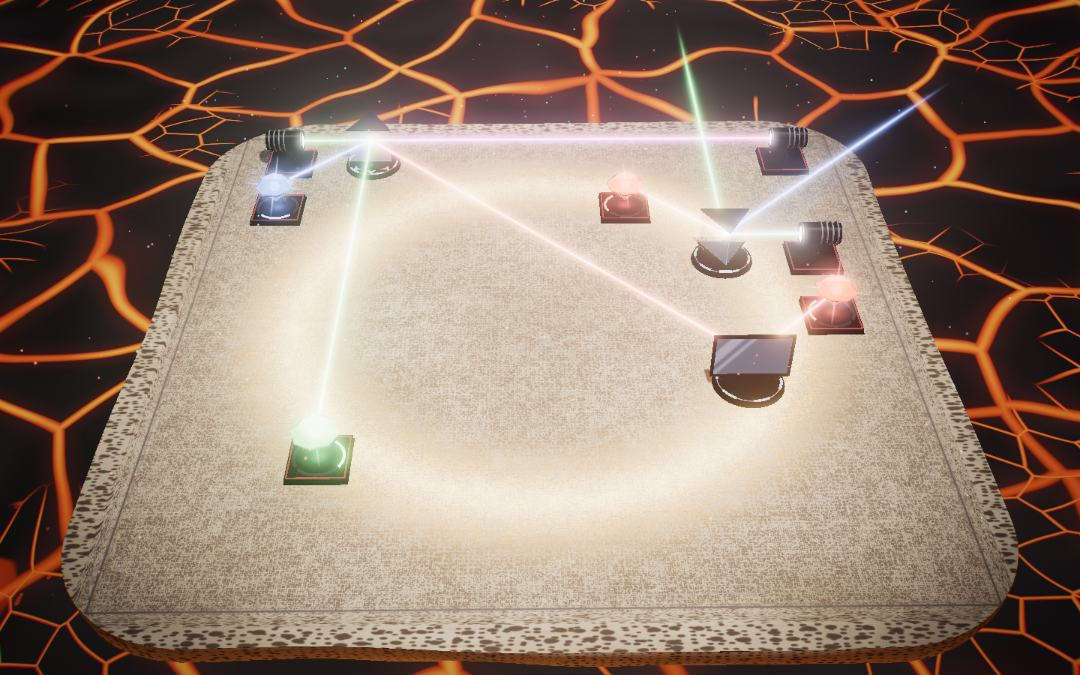
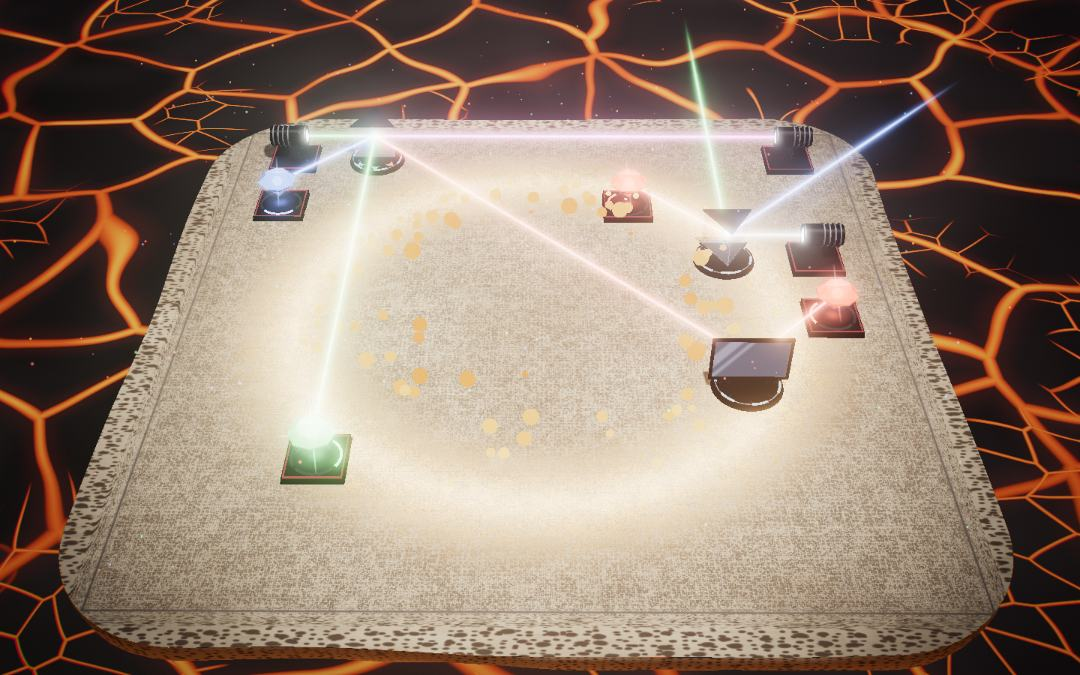
docs(brett): Vulkan-Katalog Version 2 – jede Karte mit eigener Lichtwelle; Ticket 09 nachgeführt

diff --git a/.scratch/brett-je-himmel/katalog-vulkan/index.html b/.scratch/brett-je-himmel/katalog-vulkan/index.html
@@ -114,9 +114,10 @@
       <h1>Vulkanbretter</h1>
       <p class="lead">Acht Richtungen für das Brett über dem Lavasee am neuen Krater, bei Nacht und im Licht der Glut:
         Stoffe des Vulkans (Obsidian, Stricklava, Bims), andere Formen (Basaltsäulen, ein hängender Tuffkegel mit einer
-        Stadt darin), etwas Gebautes (ein Amboss), die Farben der Schwefelquellen von Dallol und ein Drachenhort. Jedes Bild
-        stammt aus dem Spiel, dasselbe Level, das Brett zur Laufzeit eingesetzt. Wähle eine Richtung, gern mit
-        Änderungswünschen.</p>
+        Stadt darin), etwas Gebautes (ein Amboss), die Farben der Schwefelquellen von Dallol und ein Drachenhort. Beim
+        Lösen passiert auf jedem Brett etwas Eigenes, das vierte Bild jeder Karte zeigt es: Splitter, Säulen, Lavablasen,
+        Funken, Gasblasen, Kristalle, Ballone oder Münzen. Jedes Bild stammt aus dem Spiel, dasselbe Level, das Brett zur
+        Laufzeit eingesetzt. Wähle eine Richtung, gern mit Änderungswünschen.</p>
     </div>
     <section class="grenzen" aria-labelledby="grenzen-titel">
       <h2 id="grenzen-titel">Bleibt in jeder Richtung gleich</h2>
@@ -243,8 +244,8 @@
           <div><dt>Raster</dt><dd>Matt geätzte, graue Linien.</dd></div>
           <div><dt>Einlegelinie</dt><dd>Eine matte, hellgraue Linie.</dd></div>
           <div><dt>Spiegelung</dt><dd>Ja, stark: schwarzes, poliertes Glas.</dd></div>
-          <div class="welle"><dt>Lichtwelle</dt><dd>Ein Regenbogenschimmer wie bei Regenbogenobsidian, der den Fliessbändern im Glas folgt.</dd></div>
-          <div><dt>Kosten</dt><dd>Alles berechnet, der Kiel ist ein Körper aus Ringen. Der ausgebogte Umriss deckt den heutigen Quader nicht ganz.</dd></div>
+          <div class="welle"><dt>Lichtwelle</dt><dd>Wo der Ring vorbeizieht, schiessen schwarze Glassplitter mit Regenbogenkanten aus dem Feld, und das Glas schimmert in den Farben von Regenbogenobsidian. Hinter dem Ring sinken die Splitter wieder ins Glas, der Schimmer verlischt, und das Feld ist wieder schwarz und spiegelglatt.</dd></div>
+          <div><dt>Kosten</dt><dd>Alles berechnet, der Kiel ist ein Körper aus Ringen. Der ausgebogte Umriss deckt den heutigen Quader nicht ganz. Für die Welle rund 900 Splitter als Instanzen, in Ruhe unsichtbar.</dd></div>
         </dl>
         <ul class="hinweise">
           <li><span class="chip chip-kern">Kernquader kleiner</span> Ausgebogter Umriss: Der Kernquader wird kleiner. Der Kiel hängt 1,6 m unter das Brett, bleibt aber im Umriss.</li>
@@ -295,8 +296,8 @@
           <div><dt>Raster</dt><dd>Feine, helle Linien über den Fugen.</dd></div>
           <div><dt>Einlegelinie</dt><dd>Eine hellgraue Linie.</dd></div>
           <div><dt>Spiegelung</dt><dd>Leicht, der Basalt ist geschliffen.</dd></div>
-          <div class="welle"><dt>Lichtwelle</dt><dd>Glut steigt in den Fugen der Säulen auf, und die Köpfe der Randsäulen leuchten nacheinander auf.</dd></div>
-          <div><dt>Kosten</dt><dd>Rund 940 Säulen als ein Körper mit Instanzen, das Muster im Feld ist berechnet.</dd></div>
+          <div class="welle"><dt>Lichtwelle</dt><dd>Im Ring heben sich Säulen des Felds eine Handbreit aus dem Boden, ihre Flanken glühen orange wie frisch erstarrter Basalt, und in den Fugen steigt Glut auf. Hinter dem Ring sinken die Säulen zurück, die Fugen verglimmen, und das Feld ist wieder eben.</dd></div>
+          <div><dt>Kosten</dt><dd>Rund 940 Säulen als ein Körper mit Instanzen, das Muster im Feld ist berechnet. Für die Welle einige hundert Säulen mehr, in Ruhe unsichtbar.</dd></div>
         </dl>
         <ul class="hinweise">
           <li><span class="chip chip-teile">Viele kleine Teile</span> Rund 940 Säulen (Instanzen, ein Zeichenaufruf). Auf dem Handy zu messen.</li>
@@ -348,8 +349,8 @@
           <div><dt>Raster</dt><dd>Feine Fugen, in denen es dunkelrot glimmt.</dd></div>
           <div><dt>Einlegelinie</dt><dd>Eine silbrige Glaslinie.</dd></div>
           <div><dt>Spiegelung</dt><dd>Leicht, die glasige Haut glänzt.</dd></div>
-          <div class="welle"><dt>Lichtwelle</dt><dd>Ein Hitzestoss: Fugen und Risse flammen gelb auf, wo der Ring vorbeizieht.</dd></div>
-          <div><dt>Kosten</dt><dd>Alles berechnet, die Seiten sind ein Körper aus Ringen.</dd></div>
+          <div class="welle"><dt>Lichtwelle</dt><dd>Wo der Ring vorbeizieht, bricht die Kruste auf: Glühende Lavablasen quellen hervor, Funken steigen auf, und Fugen und Risse flammen gelb. Hinter dem Ring erkalten die Blasen von Gelb über Dunkelrot zu Kruste und sinken ein, die Funken verglühen in der Luft.</dd></div>
+          <div><dt>Kosten</dt><dd>Alles berechnet, die Seiten sind ein Körper aus Ringen. Für die Welle rund 900 Blasen und 700 Funken als Instanzen, in Ruhe unsichtbar.</dd></div>
         </dl>
         <ul class="hinweise">
           <li><span class="chip chip-kern">Kernquader kleiner</span> Runder Umriss mit Zehen: Der Kernquader wird kleiner.</li>
@@ -400,8 +401,8 @@
           <div><dt>Raster</dt><dd>Anreisslinien, fein und blank.</dd></div>
           <div><dt>Einlegelinie</dt><dd>Eine Linie aus Messing.</dd></div>
           <div><dt>Spiegelung</dt><dd>Ja, der Stahl ist geschliffen.</dd></div>
-          <div class="welle"><dt>Lichtwelle</dt><dd>Ein Hammerschlag: ein weissglühender Ring mit Funkenflug, dahinter kühlt der Stahl dunkelrot ab.</dd></div>
-          <div><dt>Kosten</dt><dd>Alles berechnet, Körper und Stab sind einfache Körper. Deckt den heutigen Quader wie heute.</dd></div>
+          <div class="welle"><dt>Lichtwelle</dt><dd>Ein Hammerschlag: Ein weissglühender Ring läuft über die Bahn, aus ihm springen Funken hoch und nach aussen und verglühen im Flug von Gelbweiss zu Orange. Hinter dem Ring glüht der Stahl dunkelrot nach und kühlt wieder zu Grau ab.</dd></div>
+          <div><dt>Kosten</dt><dd>Alles berechnet, Körper und Stab sind einfache Körper. Deckt den heutigen Quader wie heute. Für die Welle rund 1400 Funken als Instanzen, in Ruhe unsichtbar.</dd></div>
         </dl>
         <ul class="hinweise">
           <li><span class="chip chip-ausblick">Ausblick, teurer</span> Ein echtes Horn ragte über den Umriss von 9,8 × 9,8 m hinaus, darum fehlt es hier.</li>
@@ -452,8 +453,8 @@
           <div><dt>Raster</dt><dd>Feine, dunklere Rillen.</dd></div>
           <div><dt>Einlegelinie</dt><dd>Eine dunkle Linie.</dd></div>
           <div><dt>Spiegelung</dt><dd>Keine, Bims ist matt.</dd></div>
-          <div class="welle"><dt>Lichtwelle</dt><dd>Warmes Licht scheint aus den Poren, als wäre das Brett eine Laterne.</dd></div>
-          <div><dt>Kosten</dt><dd>Alles berechnet, der Körper ist ein Rumpf aus Ringen.</dd></div>
+          <div class="welle"><dt>Lichtwelle</dt><dd>Aus den Poren steigen glühende Gasblasen, werden beim Steigen grösser und zerplatzen, und die Poren leuchten im Ring warm auf wie eine Laterne. Hinter dem Ring werden die Poren wieder dunkel, die letzten Blasen platzen über dem Brett.</dd></div>
+          <div><dt>Kosten</dt><dd>Alles berechnet, der Körper ist ein Rumpf aus Ringen. Für die Welle rund 550 Blasen als Instanzen, in Ruhe unsichtbar.</dd></div>
         </dl>
         <ul class="hinweise">
           <li><span class="chip chip-kern">Kernquader kleiner</span> Rundlicher Umriss: Der Kernquader wird kleiner.</li>
@@ -504,8 +505,8 @@
           <div><dt>Raster</dt><dd>Feine Linien in Ocker.</dd></div>
           <div><dt>Einlegelinie</dt><dd>Ein Band aus Schwefelgelb.</dd></div>
           <div><dt>Spiegelung</dt><dd>Leicht, nur die Becken glänzen.</dd></div>
-          <div class="welle"><dt>Lichtwelle</dt><dd>Blaues Schwefelfeuer wie am Kawah Ijen läuft als flackernder Ring über das Brett, die Becken fangen das blaue Licht.</dd></div>
-          <div><dt>Kosten</dt><dd>Alles berechnet, die 13 Schlote sind einfache Körper. Deckt den heutigen Quader wie heute.</dd></div>
+          <div class="welle"><dt>Lichtwelle</dt><dd>Im Ring wachsen gelbe Schwefelkristalle aus der Kruste, und blaue Flammen züngeln an ihnen hoch wie nachts am Kawah Ijen; die Becken fangen das blaue Licht. Hinter dem Ring erlöschen die Flammen, die Kristalle zerfallen wieder, und die Becken werden grün.</dd></div>
+          <div><dt>Kosten</dt><dd>Alles berechnet, die 13 Schlote sind einfache Körper. Deckt den heutigen Quader wie heute. Für die Welle rund 1100 Kristalle und 600 Flammen als Instanzen, in Ruhe unsichtbar.</dd></div>
         </dl>
         
         <p class="vorbilder"><span class="label">Vorbilder</span> <a href="https://de.wikipedia.org/wiki/Dallol" target="_blank" rel="noopener">Dallol</a> · <a href="https://de.wikipedia.org/wiki/Kawah_Ijen" target="_blank" rel="noopener">Kawah Ijen</a> · <a href="https://de.wikipedia.org/wiki/Schwefel" target="_blank" rel="noopener">Schwefel</a> · <a href="https://en.wikipedia.org/wiki/Grand_Prismatic_Spring" target="_blank" rel="noopener">Grand Prismatic Spring</a></p>
@@ -554,8 +555,8 @@
           <div><dt>Raster</dt><dd>Gemeisselte Rillen.</dd></div>
           <div><dt>Einlegelinie</dt><dd>Ein Band aus rotem Tuff.</dd></div>
           <div><dt>Spiegelung</dt><dd>Keine, Tuff ist matt.</dd></div>
-          <div class="welle"><dt>Lichtwelle</dt><dd>Fenster für Fenster geht das Licht an, wo der Ring vorbeizieht. Oben läuft warmes Lampenlicht über den Tuff.</dd></div>
-          <div><dt>Kosten</dt><dd>Alles berechnet, der Kegel ist ein Körper aus Ringen, Fenster und Türen sind gemalt. Die Feenkamine sind einfache Körper.</dd></div>
+          <div class="welle"><dt>Lichtwelle</dt><dd>Wo der Ring vorbeizieht, steigen kleine Heissluftballone auf wie morgens über Göreme, und am Kegel geht Fenster für Fenster das Licht an. Hinter dem Ring treiben die Ballone höher und verblassen, die Fenster dimmen wieder auf ihr ruhiges Lampenlicht.</dd></div>
+          <div><dt>Kosten</dt><dd>Alles berechnet, der Kegel ist ein Körper aus Ringen, Fenster und Türen sind gemalt. Die Feenkamine sind einfache Körper. Für die Welle 55 Ballone als Instanzen, in Ruhe unsichtbar.</dd></div>
         </dl>
         <ul class="hinweise">
           <li><span class="chip chip-blender">Form aus Blender</span> Vertiefte Fenster, Balkone und Treppen am Kegel wären aus Blender deutlich schöner.</li>
@@ -606,8 +607,8 @@
           <div><dt>Raster</dt><dd>Goldene Linien.</dd></div>
           <div><dt>Einlegelinie</dt><dd>Eine breite Goldlinie.</dd></div>
           <div><dt>Spiegelung</dt><dd>Ja, die Bronze glänzt.</dd></div>
-          <div class="welle"><dt>Lichtwelle</dt><dd>Das Gold funkelt Münze für Münze auf, die Ränder der Schuppen leuchten golden nach.</dd></div>
-          <div><dt>Kosten</dt><dd>Platte, Schuppen und Krallen berechnet, die Münzen sind rund 2200 Instanzen.</dd></div>
+          <div class="welle"><dt>Lichtwelle</dt><dd>Wo der Ring vorbeizieht, springen Goldmünzen aus der Platte und drehen sich funkelnd in der Luft, die Ränder der Schuppen leuchten golden. Hinter dem Ring fallen die Münzen zurück und verschwinden im Hort, das Glühen der Schuppen klingt ab.</dd></div>
+          <div><dt>Kosten</dt><dd>Platte, Schuppen und Krallen berechnet, die Münzen sind rund 2200 Instanzen. Für die Welle rund 1500 springende Münzen als Instanzen, in Ruhe unsichtbar.</dd></div>
         </dl>
         <ul class="hinweise">
           <li><span class="chip chip-teile">Viele kleine Teile</span> Rund 2200 Münzen (Instanzen, ein Zeichenaufruf). Auf dem Handy zu messen.</li>

diff --git a/.scratch/brett-je-himmel/katalog-vulkan/bretter/varianten-vulkan/0-hilfe.js b/.scratch/brett-je-himmel/katalog-vulkan/bretter/varianten-vulkan/0-hilfe.js
@@ -149,5 +149,84 @@ __katalog.vk = (() => {
   }
   /** Textur für hullGeo (Zeile 0 der Leinwand = oberster Ring, v = 0) */
   function htex(c, srgb = true) { const t = L.tex(c, srgb); t.flipY = false; return t; }
-  return { slab, clip, roundedSquare, inside, hullGeo, faceColors, cells, mask, maskFn, unter, lavaMat, LAVA, htex };
+  /**
+   * Körper der Lichtwelle (wie die Blumen im Moospolster des Wald-Katalogs): unsichtbar in Ruhe, erscheinen nur, wenn
+   * der Ring vorbeizieht. list: [{ p: [x, y, z], r: [rx, ry, rz], s: Zahl oder [sx, sy, sz], c: [r, g, b] }].
+   * mode 'grow': wachsen im Ring (axis 'y': nur in die Höhe), keep: Anteil, der hinter dem Ring bleibt und über tail
+   *   (m) vergeht. 'rise': erscheinen, wenn der Ring sie erreicht, steigen über tail (m) um lift (m) auf und treiben um
+   *   drift (m) nach aussen; size: GLSL-Ausdruck der Grösse aus ph (0..1). 'hop': springen um lift hoch, drehen sich um
+   *   spin (rad) und fallen zurück.
+   * glow: GLSL vor dem Tonemapping, sieht vGrow (0..1, Stärke), vPhase (0 Ring … 1 Ende), vRnd (0..1 je Körper).
+   * Liefert ein InstancedMesh (ohne Schatten; das Netz steht im Ursprung).
+   */
+  function koerper(geo, mat, list, o = {}) {
+    const { mode = 'grow', width = 2.5, keep = 0, tail = 1.2, lift = 0.4, drift = 0, spin = 0, jitter = 0.4, axis = 'all',
+      size = '(1.0 - ph)', glow = '' } = o;
+    const f = (v) => Number(v).toFixed(3);
+    const key = 'katalog-koerper-' + Math.random();
+    let body;
+    if (mode === 'grow') {
+      body = `vGrow = clamp(max(ringv, ${f(keep)} * step(0.0, rel) * (1.0 - vPhase)) * on, 0.0, 1.0);
+        ${axis === 'y' ? 'transformed.y *= vGrow;' : 'transformed *= vGrow;'}`;
+    } else if (mode === 'rise') {
+      body = `float ph = vPhase, act = step(0.0, rel) * step(rel, ${f(tail)}) * on;
+        vGrow = act * (1.0 - ph);
+        transformed *= act * max(0.0, ${size});
+        vec2 dir = normalize(ic.xz + vec2(1e-4));
+        vLift = vec3(dir.x * ${f(drift)} * ph, ${f(lift)} * (1.0 - (1.0 - ph) * (1.0 - ph)) * (0.6 + 0.6 * vRnd), dir.y * ${f(drift)} * ph);`;
+    } else {
+      body = `float ph = clamp((rel + 0.3) / ${f(tail)}, 0.0, 1.0), act = step(0.0, rel + 0.3) * step(rel + 0.3, ${f(tail)}) * on;
+        vPhase = ph; vGrow = act * sin(3.1416 * ph);
+        float a = ${f(spin)} * ph * (vRnd > 0.5 ? 1.0 : -1.0);
+        transformed.yz = mat2(cos(a), sin(a), -sin(a), cos(a)) * transformed.yz;
+        transformed *= act * smoothstep(0.0, 0.12, ph) * smoothstep(1.0, 0.85, ph);
+        vLift = vec3(0.0, ${f(lift)} * sin(3.1416 * ph) * (0.6 + 0.6 * vRnd), 0.0);`;
+    }
+    mat.onBeforeCompile = (sh) => {
+      Object.assign(sh.uniforms, L.shock);
+      sh.vertexShader = sh.vertexShader
+        .replace('#include <common>', '#include <common>\nuniform vec3 uShock;\nvarying float vGrow;\nvarying float vPhase;\nvarying float vRnd;')
+        .replace('#include <begin_vertex>', `#include <begin_vertex>
+          vec3 vLift = vec3(0.0);
+          vec3 ic = (instanceMatrix * vec4(0.0, 0.0, 0.0, 1.0)).xyz;
+          vRnd = fract(sin(dot(ic.xz, vec2(12.9898, 78.233))) * 43758.5453);
+          float d = length(ic.xz) + (vRnd - 0.5) * ${f(jitter)};
+          float on = step(0.001, uShock.y) * min(1.0, uShock.y * 3.0);
+          float ringv = exp(-pow((d - uShock.x) / (uShock.z * ${f(width)}), 2.0));
+          float rel = uShock.x - d;
+          vPhase = clamp(rel / ${f(tail)}, 0.0, 1.0);
+          ${body}`)
+        .replace('#include <project_vertex>', `vec4 mvPosition = vec4(transformed, 1.0);
+          mvPosition = instanceMatrix * mvPosition;
+          mvPosition.xyz += vLift;
+          mvPosition = modelViewMatrix * mvPosition;
+          gl_Position = projectionMatrix * mvPosition;`);
+      sh.fragmentShader = sh.fragmentShader
+        .replace('#include <common>', '#include <common>\nvarying float vGrow;\nvarying float vPhase;\nvarying float vRnd;')
+        .replace('#include <tonemapping_fragment>', `${glow}\n#include <tonemapping_fragment>`);
+    };
+    mat.customProgramCacheKey = () => key;
+    const inst = new T.InstancedMesh(geo, mat, list.length);
+    const M = new T.Matrix4(), Q = new T.Quaternion(), S = new T.Vector3(), P = new T.Vector3(), E = new T.Euler(), C = new T.Color();
+    list.forEach((it, i) => {
+      P.set(...it.p); Q.setFromEuler(E.set(...(it.r ?? [0, 0, 0])));
+      if (Array.isArray(it.s)) S.set(...it.s); else S.setScalar(it.s ?? 1);
+      inst.setMatrixAt(i, M.compose(P, Q, S));
+      if (it.c) { C.setRGB(...it.c); inst.setColorAt(i, C); }
+    });
+    inst.frustumCulled = false; inst.castShadow = false; inst.receiveShadow = false;
+    return inst;
+  }
+  /** Gleich verteilte Punkte auf der Platte (im Umriss pts, wenn gegeben); fn(x, z, box, r) → Eintrag oder null */
+  function streu(n, r, fn, pts) {
+    const out = [];
+    for (let k = 0; out.length < n && k < n * 20; k++) {
+      const x = (r() * 2 - 1) * (HP - 0.06), z = (r() * 2 - 1) * (HP - 0.06);
+      if (pts && !inside(pts, x, z)) continue;
+      const e = fn(x, z, Math.max(Math.abs(x), Math.abs(z)), r);
+      if (e) out.push(e);
+    }
+    return out;
+  }
+  return { slab, clip, roundedSquare, inside, hullGeo, faceColors, cells, mask, maskFn, unter, lavaMat, LAVA, htex, koerper, streu };
 })();

diff --git a/.scratch/brett-je-himmel/katalog-vulkan/bretter/varianten-vulkan/3-stricklava.js b/.scratch/brett-je-himmel/katalog-vulkan/bretter/varianten-vulkan/3-stricklava.js
@@ -106,5 +106,19 @@ __katalog.varianten.stricklava = async (L) => {
   const side = new T.Mesh(geo, sideMat);
   side.receiveShadow = true;
   D.scene.add(side);
+  // Lichtwelle: die Kruste bricht auf, glühende Blasen quellen hervor und Funken steigen; dahinter erkalten die Blasen
+  {
+    const q = rng(421);
+    const bg = new T.SphereGeometry(1, 12, 6, 0, Math.PI * 2, 0, Math.PI / 2);
+    const blobs = V.streu(900, q, (x, z, box, w) => { const s = 0.06 + w() * 0.1; return { p: [x, -0.012, z], r: [0, w() * 6.3, 0], s: [s, s * (0.5 + w() * 0.4), s * (0.8 + w() * 0.4)] }; }, pts);
+    const bm = new T.MeshStandardMaterial({ color: 0x0c0908, roughness: 0.5 });
+    D.scene.add(V.koerper(bg, bm, blobs, { mode: 'grow', width: 1.8, keep: 0.55, tail: 1.8, glow: `
+      float heat = clamp(vGrow * (1.0 - vPhase * 0.8), 0.0, 1.0);
+      vec3 hot = mix(vec3(0.35, 0.04, 0.01), vec3(1.2, 0.55, 0.12), smoothstep(0.35, 1.0, heat));
+      gl_FragColor.rgb = gl_FragColor.rgb * 0.4 + hot * smoothstep(0.1, 0.6, heat);` }));
+    const sp = V.streu(700, q, (x, z, box, w) => ({ p: [x, 0.02, z], r: [w() * 3, w() * 3, 0], s: 0.014 + w() * 0.014 }), pts);
+    D.scene.add(V.koerper(new T.OctahedronGeometry(1), new T.MeshBasicMaterial({ color: 0xffffff }), sp, { mode: 'rise', tail: 1.5, lift: 0.8, drift: 0.15, glow: `
+      gl_FragColor.rgb = mix(vec3(1.5, 1.0, 0.45), vec3(1.0, 0.25, 0.04), vPhase) * (1.0 - vPhase * 0.5);` }));
+  }
   return 'Stricklava';
 };

diff --git a/.scratch/brett-je-himmel/katalog-vulkan/bretter/varianten-vulkan/7-hoehlenstadt.js b/.scratch/brett-je-himmel/katalog-vulkan/bretter/varianten-vulkan/7-hoehlenstadt.js
@@ -128,5 +128,17 @@ __katalog.varianten.hoehlenstadt = async (L) => {
     const c = new T.Mesh(lathe, chimMat); c.position.set(x, 0, z); c.scale.set(1, k, 1); c.castShadow = true; D.scene.add(c);
     const h = new T.Mesh(capG, capMat); h.position.set(x, 0.66 * k + 0.02, z); h.castShadow = true; D.scene.add(h);
   }
+  // Lichtwelle: kleine Heissluftballone steigen aus dem Ring auf wie morgens über Göreme und verblassen in der Höhe
+  {
+    const q = rng(821);
+    const env = new T.SphereGeometry(0.5, 16, 12); env.scale(1, 1.15, 1); env.translate(0, 0.62, 0);
+    const bk = new T.BoxGeometry(0.22, 0.16, 0.22);
+    const pal = [[0.85, 0.2, 0.12], [0.95, 0.6, 0.12], [0.2, 0.4, 0.8], [0.9, 0.85, 0.3], [0.55, 0.2, 0.55]];
+    const list = V.streu(55, q, (x, z, box, w) => ({ p: [x, 0.05, z], r: [0, w() * 6.3, 0], s: 0.3 + w() * 0.15, c: pal[Math.floor(w() * pal.length)] }));
+    const size = '(smoothstep(0.0, 0.1, ph) * (1.0 - smoothstep(0.8, 1.0, ph)))';
+    D.scene.add(V.koerper(env, new T.MeshStandardMaterial({ color: 0xffffff, roughness: 0.7 }), list, { mode: 'rise', tail: 2.6, lift: 1.3, size, glow: `
+      gl_FragColor.rgb += vColor * 0.25 * (1.0 - vPhase * 0.5) + vec3(1.0, 0.6, 0.2) * 0.12;` }));
+    D.scene.add(V.koerper(bk, new T.MeshStandardMaterial({ color: 0x5a3a22, roughness: 0.9 }), list.map((l) => ({ ...l, c: undefined })), { mode: 'rise', tail: 2.6, lift: 1.3, size }));
+  }
   return 'Höhlenstadt';
 };

diff --git a/.scratch/brett-je-himmel/katalog-vulkan/bretter/varianten-vulkan/6-schwefel.js b/.scratch/brett-je-himmel/katalog-vulkan/bretter/varianten-vulkan/6-schwefel.js
@@ -93,5 +93,17 @@ __katalog.varianten.schwefel = async (L) => {
   });
   inst.castShadow = true;
   D.scene.add(inst);
+  // Lichtwelle: gelbe Schwefelkristalle wachsen, blaue Flammen züngeln an ihnen hoch; dahinter zerfallen die Kristalle
+  {
+    const q = rng(721);
+    const cg = new T.OctahedronGeometry(1); cg.translate(0, 0.75, 0);
+    const cr = V.streu(1100, q, (x, z, box, w) => ({ p: [x, -0.01, z], r: [(w() - 0.5) * 0.9, w() * 6.3, (w() - 0.5) * 0.9], s: [0.035 + w() * 0.03, 0.08 + w() * 0.12, 0.035 + w() * 0.03], c: (w() < 0.8 ? [0.9, 0.72, 0.08] : [0.75, 0.85, 0.2]) }));
+    D.scene.add(V.koerper(cg, new T.MeshStandardMaterial({ color: 0xffffff, roughness: 0.35, flatShading: true, emissive: new T.Color(0.25, 0.2, 0.02) }), cr, { mode: 'grow', width: 2.0, keep: 0.4, tail: 1.2 }));
+    const fg = new T.ConeGeometry(1, 1, 7, 1, true); fg.translate(0, 0.5, 0);
+    const fl = V.streu(600, q, (x, z, box, w) => ({ p: [x, 0.0, z], r: [0, w() * 6.3, 0], s: [0.04 + w() * 0.04, 0.2 + w() * 0.3, 0.04 + w() * 0.04] }));
+    const fmat = new T.MeshBasicMaterial({ color: 0xffffff, transparent: true, blending: T.AdditiveBlending, depthWrite: false, side: T.DoubleSide });
+    D.scene.add(V.koerper(fg, fmat, fl, { mode: 'grow', width: 1.4, glow: `
+      gl_FragColor = vec4(vec3(0.12, 0.35, 1.25) * vGrow * (0.6 + 0.4 * vRnd), 1.0);` }));
+  }
   return `Schwefelquelle (${spots.length} Schlote)`;
 };

diff --git a/.scratch/brett-je-himmel/katalog-vulkan/bretter/varianten-vulkan/1-obsidian.js b/.scratch/brett-je-himmel/katalog-vulkan/bretter/varianten-vulkan/1-obsidian.js
@@ -112,5 +112,14 @@ __katalog.varianten.obsidian = async (L) => {
   keel.material.vertexColors = true;
   keel.material.onBeforeCompile = ((orig) => (sh, rr) => { orig(sh, rr); sh.fragmentShader = sh.fragmentShader.replace('#include <color_fragment>', ''); })(keel.material.onBeforeCompile);
   D.scene.add(keel);
+  // Lichtwelle: schwarze Glassplitter mit Regenbogenkanten schiessen aus dem Glas und sinken hinter dem Ring zurück
+  {
+    const sg = new T.ConeGeometry(1, 1, 4, 1); sg.translate(0, 0.5, 0);
+    const list = V.streu(900, rng(211), (x, z, box, q) => ({ p: [x, -0.01, z], r: [(q() - 0.5) * 0.8, q() * 6.3, (q() - 0.5) * 0.8], s: [0.04 + q() * 0.035, 0.18 + q() * 0.26, 0.04 + q() * 0.035] }), pts);
+    const m = new T.MeshStandardMaterial({ color: 0x060608, roughness: 0.08, metalness: 0.2, flatShading: true, envMapIntensity: 2.5 });
+    D.scene.add(V.koerper(sg, m, list, { mode: 'grow', width: 1.8, glow: `
+      vec3 irid = 0.5 + 0.5 * cos(6.2832 * (vRnd + dot(normal, vec3(0.7, 0.4, 0.6)) * 0.8 + vec3(0.0, 0.33, 0.67)));
+      gl_FragColor.rgb += irid * vGrow * 0.85;` }));
+  }
   return 'Obsidian';
 };

diff --git a/.scratch/brett-je-himmel/katalog-vulkan/bretter/varianten-vulkan/2-basalt.js b/.scratch/brett-je-himmel/katalog-vulkan/bretter/varianten-vulkan/2-basalt.js
@@ -87,5 +87,16 @@ __katalog.varianten.basalt = async (L) => {
   });
   inst.castShadow = true; inst.receiveShadow = true;
   D.scene.add(inst);
+  // Lichtwelle: die Säulen des Felds heben sich im Ring, ihre Flanken glühen frisch; dahinter sinken sie zurück
+  {
+    const cg = new T.CylinderGeometry(R * 0.95, R * 0.95, 1, 6, 1); cg.translate(0, 0.5, 0);
+    const q = rng(311), list = [];
+    for (const c of cols) if (c.field && q() < 0.5) list.push({ p: [c.cx, -0.02, c.cz], s: [1, 0.08 + Math.pow(q(), 2) * 0.22, 1] });
+    const m = new T.MeshStandardMaterial({ color: 0x0b0a0a, roughness: 0.6, flatShading: true });
+    D.scene.add(V.koerper(cg, m, list, { mode: 'grow', axis: 'y', width: 2.2, keep: 0.25, tail: 1.0, glow: `
+      vec3 wN = inverseTransformDirection(normal, viewMatrix);
+      float side = 1.0 - smoothstep(0.6, 0.9, wN.y);
+      gl_FragColor.rgb += vec3(1.0, 0.36, 0.07) * side * vGrow * 0.85;` }));
+  }
   return `Basaltsäulen (${cols.length} Säulen)`;
 };

diff --git a/.scratch/brett-je-himmel/katalog-vulkan/bretter/varianten-vulkan/8-drachenhort.js b/.scratch/brett-je-himmel/katalog-vulkan/bretter/varianten-vulkan/8-drachenhort.js
@@ -142,5 +142,13 @@ __katalog.varianten.drachenhort = async (L) => {
     paw.scale.set(1.05, 0.32, 1.05); paw.position.set(sx * (H0 - 0.6), -0.62, sz * (H0 - 0.6));
     D.scene.add(paw);
   }
+  // Lichtwelle: Goldmünzen springen aus der Platte, drehen sich funkelnd und fallen hinter dem Ring zurück
+  {
+    const q = rng(921);
+    const hop = V.streu(1500, q, (x, z, box, w) => ({ p: [x, 0.02, z], r: [0, w() * 6.3, 0], s: 1.4 }), pts);
+    const hm = new T.MeshStandardMaterial({ color: 0xe0a83c, metalness: 0.85, roughness: 0.25, envMapIntensity: 2.4, flatShading: true });
+    D.scene.add(V.koerper(cg, hm, hop, { mode: 'hop', tail: 1.6, lift: 0.6, spin: 9.0, glow: `
+      gl_FragColor.rgb += vec3(1.2, 0.85, 0.3) * vGrow * (0.45 + 0.5 * step(0.65, fract(vRnd * 7.0 + vPhase * 3.0)));` }));
+  }
   return `Drachenhort (${coins.length} Münzen)`;
 };

diff --git a/.scratch/brett-je-himmel/katalog-vulkan/bretter/varianten-vulkan/4-amboss.js b/.scratch/brett-je-himmel/katalog-vulkan/bretter/varianten-vulkan/4-amboss.js
@@ -122,5 +122,13 @@ __katalog.varianten.amboss = async (L) => {
   const barM = new T.Mesh(barGeo, barMat);
   barM.position.set((bar.x0 + bar.x1) / 2, 0.055, bar.z); barM.rotation.y = 0.04; barM.castShadow = true;
   D.scene.add(barM);
+  // Lichtwelle: Funken springen aus dem Ring hoch und nach aussen und verglühen im Flug
+  {
+    const q = rng(521);
+    const sg = new T.BoxGeometry(0.012, 0.012, 0.1);
+    const sp = V.streu(1400, q, (x, z, box, w) => ({ p: [x, 0.01, z], r: [w() * 6.3, w() * 6.3, w() * 6.3], s: 0.7 + w() * 0.8 }));
+    D.scene.add(V.koerper(sg, new T.MeshBasicMaterial({ color: 0xffffff }), sp, { mode: 'rise', tail: 1.3, lift: 0.9, drift: 0.7, size: '(1.0 - ph * ph)', glow: `
+      gl_FragColor.rgb = mix(vec3(1.6, 1.3, 0.8), vec3(1.2, 0.3, 0.03), vPhase);` }));
+  }
   return 'Amboss';
 };

diff --git a/.scratch/brett-je-himmel/katalog-vulkan/bretter/varianten-vulkan/5-bims.js b/.scratch/brett-je-himmel/katalog-vulkan/bretter/varianten-vulkan/5-bims.js
@@ -69,5 +69,12 @@ __katalog.varianten.bims = async (L) => {
         gl_FragColor.rgb += vec3(0.7, 0.45, 0.2) * wide * min(1.0, uShock.y * 3.0) * 0.5;`));
   body.receiveShadow = true;
   D.scene.add(body);
+  // Lichtwelle: aus den Poren steigen glühende Gasblasen, werden grösser und zerplatzen
+  {
+    const q = rng(621);
+    const list = V.streu(550, q, (x, z, box, w) => ({ p: [x, 0.0, z], s: 0.045 + w() * 0.05 }), pts);
+    D.scene.add(V.koerper(new T.SphereGeometry(1, 10, 8), new T.MeshBasicMaterial({ color: 0xffffff }), list, { mode: 'rise', tail: 1.4, lift: 0.5, size: '((0.5 + ph) * (1.0 - smoothstep(0.85, 1.0, ph)))', glow: `
+      gl_FragColor.rgb = mix(vec3(1.8, 1.1, 0.42), vec3(1.3, 0.45, 0.1), vPhase) * (1.0 - vPhase * 0.3);` }));
+  }
   return 'Bimsfloss';
 };

diff --git a/.scratch/brett-je-himmel/issues/09-vulkan.md b/.scratch/brett-je-himmel/issues/09-vulkan.md
@@ -65,7 +65,9 @@ Weltposition für Instanzen richtig, in den Katalogen von Wüste und Wald ist da
 - Im Rand stehen die Säulen in Stufen, nach aussen tiefer, einzelne etwas höher.
 - Unten hängen sie verschieden lang herab wie an der Decke der Fingalshöhle, und ihre Enden fangen das Licht der Lava.
 - Leichte Spiegelung, der Basalt ist geschliffen.
-- Lichtwelle: Glut steigt in den Fugen auf, und die Köpfe der Randsäulen leuchten nacheinander auf.
+- Lichtwelle: Glut steigt in den Fugen auf, und die Köpfe der Randsäulen leuchten nacheinander auf. In Version 2 des
+  Katalogs (nach der Wahl veröffentlicht) heben sich dazu die Säulen des Felds eine Handbreit, ihre Flanken glühen
+  orange, und hinter dem Ring sinken sie zurück und die Fugen verglimmen. Der Nutzer sagt, ob er das Heben will.
 - Kosten: rund 940 Säulen als ein Körper mit Instanzen, auf dem Handy zu messen. Der stufige Rand verkleinert den
   Kernquader etwas.
 - Vorlage: `katalog-vulkan/bretter/varianten-vulkan/2-basalt.js` mit `0-hilfe.js` und `bretter.js` aus demselben Ordner.
